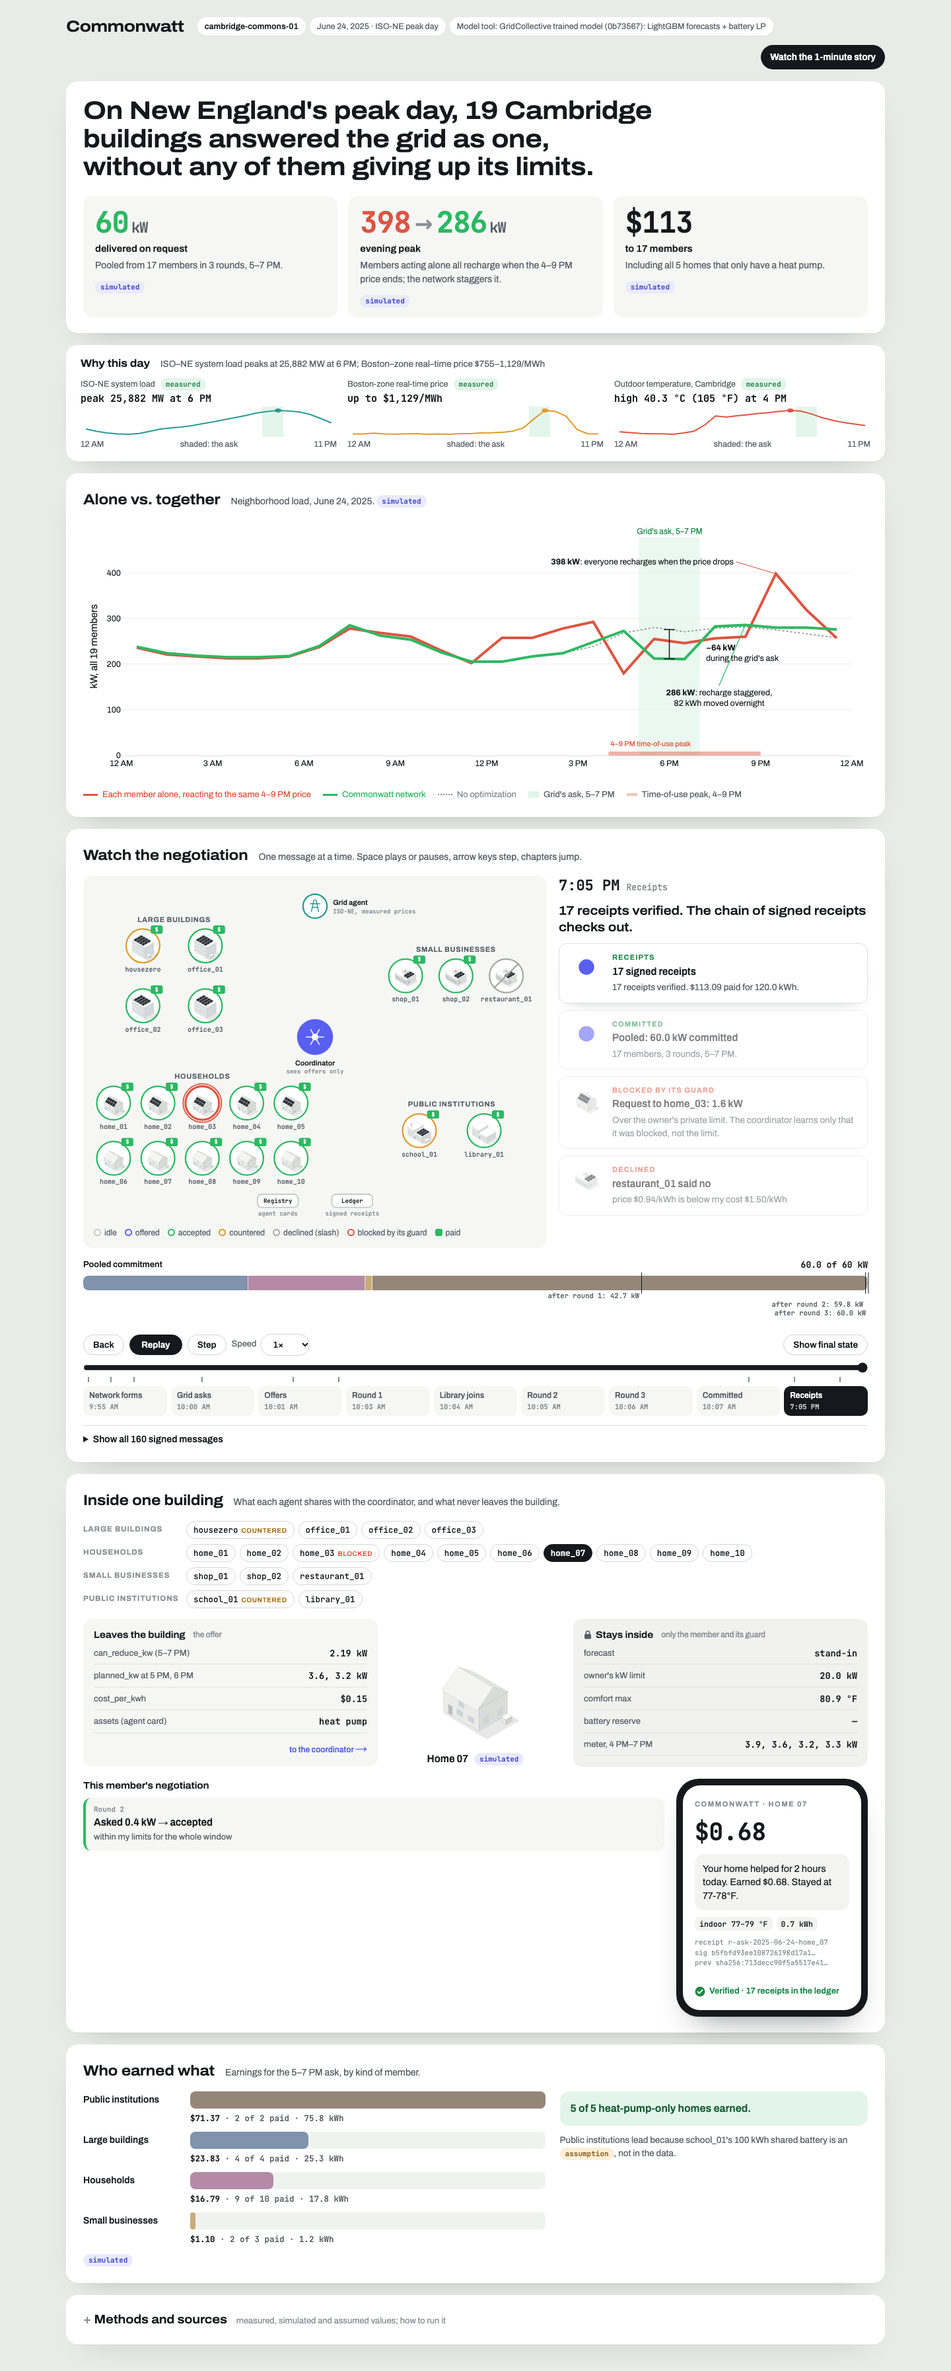
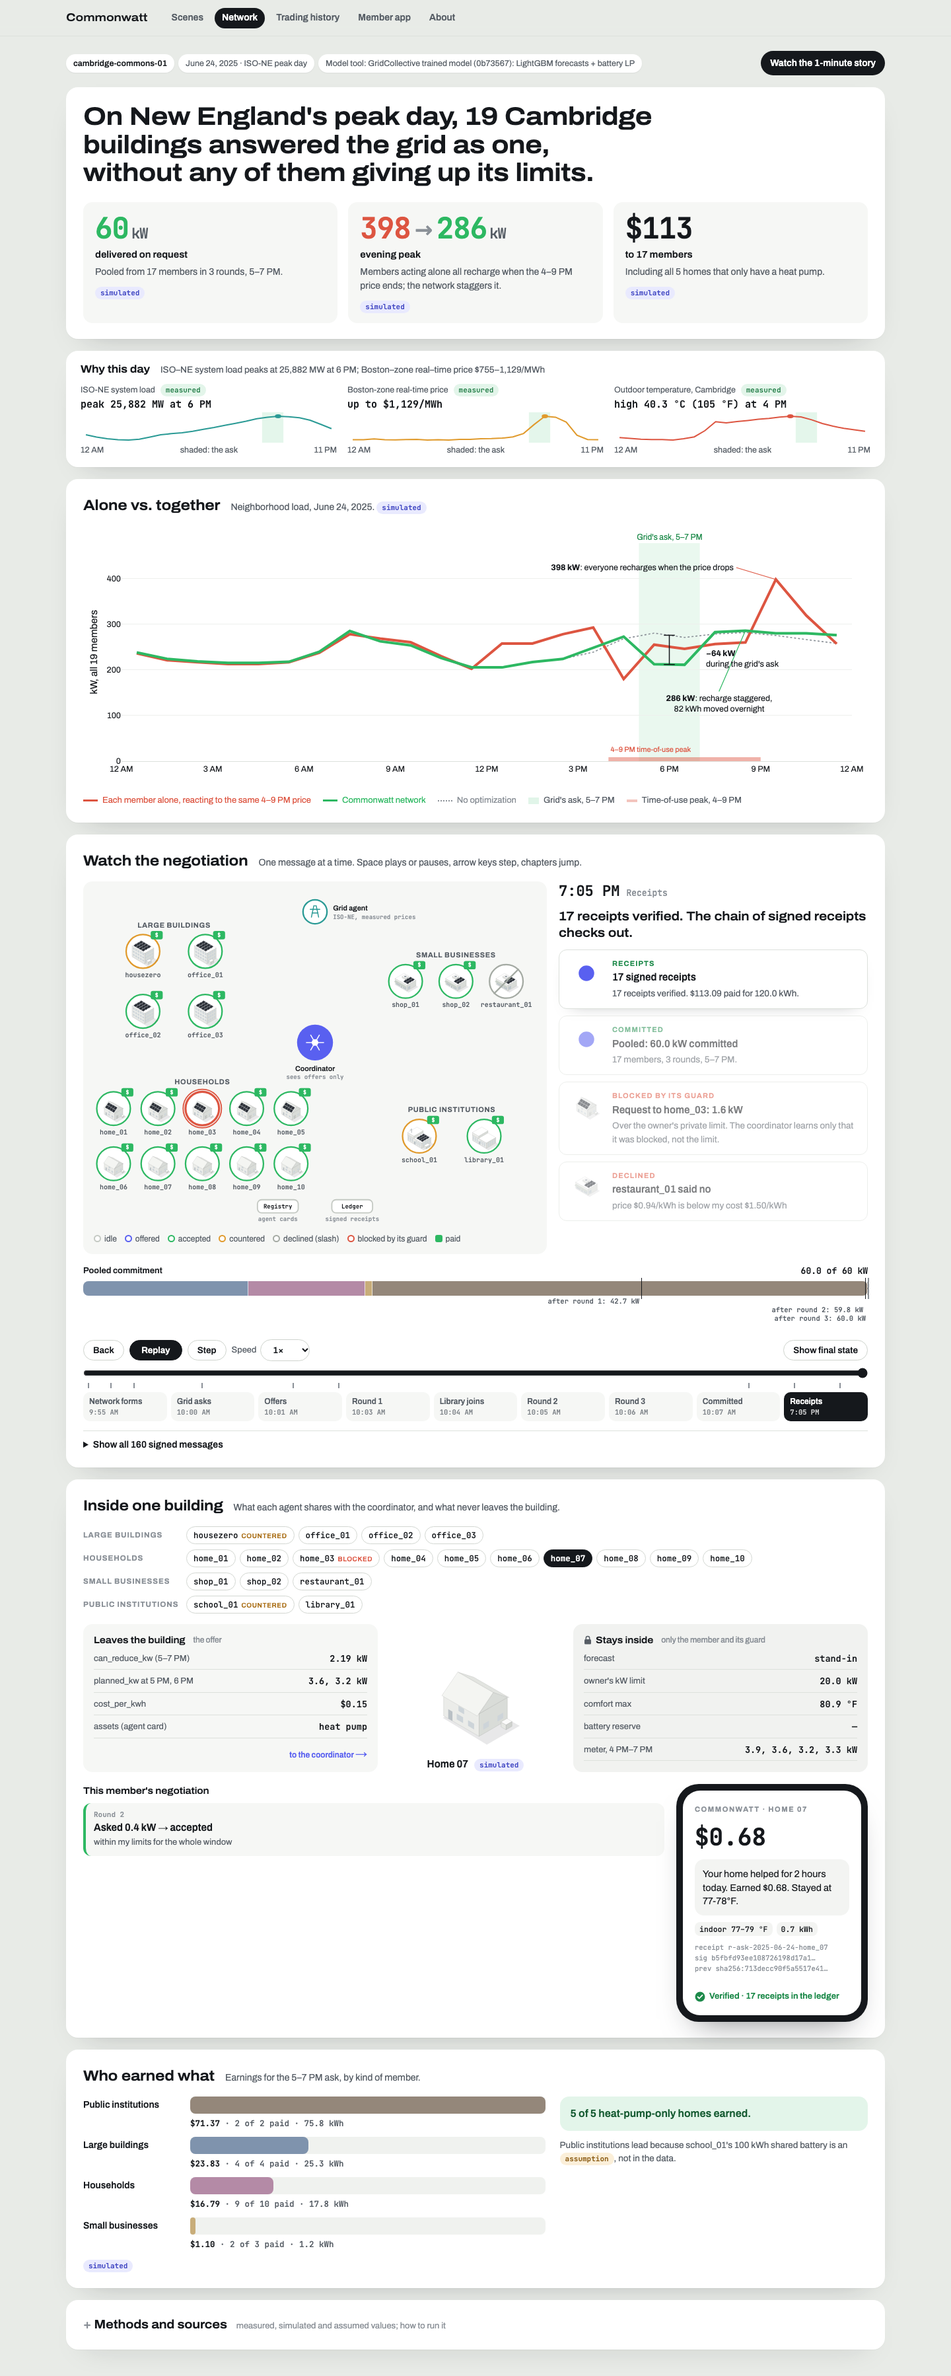
Spec task 1: shared nav on every page, landing page with June 24 numbers
app/nav.js injects Scenes / Network / Trading history / Member app / About; index.html is the landing page
(old dashboard kept as dashboard-v1.html); check_story.py checks every page at 1440 and 390 px.

diff --git a/app/index.html b/app/index.html
@@ -2,83 +2,61 @@
 <html lang="en">
 <head>
 <meta charset="utf-8">
-<title>Commonwatt · Cambridge commons · June 24, 2025</title>
 <meta name="viewport" content="width=device-width, initial-scale=1">
-<link rel="stylesheet" href="style.css">
-<script src="vendor/plotly-basic.min.js"></script>
+<title>Commonwatt · an energy commons for Massachusetts neighborhoods</title>
+<link rel="stylesheet" href="story.css">
 <script src="data/demo.js"></script>
+<script src="nav.js"></script>
+<style>
+.land-links { display:grid; grid-template-columns:repeat(auto-fit, minmax(220px, 1fr)); gap:14px; }
+.land-links a { display:block; background:#fff; border-radius:16px; padding:18px 20px; text-decoration:none; color:var(--ink);
+  box-shadow:var(--shadow); transition:transform .15s ease; }
+.land-links a:hover { transform:translateY(-2px); }
+.land-links b { display:block; font-size:18px; font-stretch:112%; margin-bottom:4px; }
+.land-links span { color:var(--ink-2); font-size:14px; }
+.pitch { font-size:clamp(16px, 2vw, 19px); color:var(--ink-2); max-width:62ch; margin:14px 0 0; }
+</style>
 </head>
 <body>
-<header>
-  <div>
-    <h1>Commonwatt <span>⚡</span></h1>
-    <p class="sub">Every building gets an agent. Every neighborhood gets a network.</p>
-  </div>
-  <div class="meta" id="meta"></div>
-</header>
-
-<section class="controls">
-  <button id="play">▶ Play the day</button>
-  <button id="step">Step</button>
-  <button id="showall">Show all</button>
-  <button id="reset">Reset</button>
-  <label>Speed <input id="speed" type="range" min="20" max="600" value="180"></label>
-  <div class="beats" id="beats"></div>
-</section>
-
-<main>
-  <section class="panel network">
-    <h2>The network <small>coordinator sees agent cards and offers only</small></h2>
-    <svg id="net" viewBox="0 0 660 430"></svg>
-    <div class="legend">
-      <span class="l request">request</span><span class="l accept">accept</span><span class="l counter">counter</span>
-      <span class="l blocked">blocked / decline</span><span class="l receipt">receipt</span><span class="l join">joined</span>
-    </div>
+<div class="wrap" id="app">
+  <section class="card hero" aria-labelledby="heroTitle">
+    <h1 id="heroTitle">Every building gets an agent. Every neighborhood gets a network.</h1>
+    <p class="pitch">Commonwatt turns a Massachusetts neighborhood's homes, businesses and public buildings into an
+      energy commons. Each building's agent keeps its owner's limits private, negotiates with a coordinator when the
+      grid asks for help, and gets paid against a signed receipt.</p>
+    <div class="hero-stats" id="heroStats"></div>
   </section>
-  <section class="panel log">
-    <h2>Message log <small>every message is a signed envelope</small></h2>
-    <ol id="log"></ol>
-  </section>
-
-  <section class="panel chart wide">
-    <h2>Neighborhood load, June 24, 2025 <small id="chart-note"></small></h2>
-    <div id="chart"></div>
-    <div class="kpis" id="kpis"></div>
-  </section>
-
-  <section class="panel phone-panel">
-    <h2>Member card</h2>
-    <select id="member"></select>
-    <div class="phone"><div class="screen" id="phone"></div></div>
-  </section>
-  <section class="panel privacy">
-    <h2>What leaves the building <small>and what stays private</small></h2>
-    <div class="cols">
-      <div><h3>Coordinator sees (offer)</h3><table id="seen"></table></div>
-      <div><h3>Stays with the member and its guard</h3><table id="private"></table></div>
-    </div>
-    <h3>Negotiation for this member</h3>
-    <table id="steps"></table>
-  </section>
-
-  <section class="panel fair">
-    <h2>Fairness <small>earnings by kind of member</small></h2>
-    <div id="fairchart"></div>
-    <table id="fairtable"></table>
-  </section>
-  <section class="panel sources">
-    <h2>Where every number comes from</h2>
-    <div id="labels"></div>
-    <table id="srctable"></table>
-  </section>
-</main>
-<footer>
-  Synthetic and simulated members are labeled. Battery sizes, prices paid and tariffs are assumptions; savings are
-  simulation results, not measured outcomes. Data: HouseZero (Harvard CGBC, CC BY 4.0, DOIs
-  10.6084/m9.figshare.30260233.v1 and 10.6084/m9.figshare.32790984.v1), City of Boston Analyze Boston (Central
-  Library electricity, PDDL), ISO New England, National Grid (Massachusetts Electric) class load shapes, NREL ComStock
-  templates.
-</footer>
-<script src="app.js"></script>
+  <nav class="land-links" aria-label="Explore">
+    <a href="presentation/commonwatt-story.html"><b>Scenes</b><span>The 1-minute story: four buildings, then the network they form.</span></a>
+    <a href="story.html"><b>Network</b><span>Replay the June 24, 2025 negotiation message by message.</span></a>
+    <a href="history.html"><b>Trading history</b><span>Seven days of asks, payments and a verifiable receipt chain.</span></a>
+    <a href="member.html"><b>Member app</b><span>What one owner sees on their phone.</span></a>
+    <a href="about.html"><b>About</b><span>The problem, the architecture, the data.</span></a>
+  </nav>
+  <p class="footnote" id="landNote"></p>
+</div>
+<div class="missing" id="missing" hidden>Run <code>uv run commonwatt-demo</code> first.</div>
+<script>
+(function () {
+  var D = window.COMMONWATT;
+  if (!D) { document.getElementById('app').hidden = true; document.getElementById('missing').hidden = false; return; }
+  var S = D.summary, fmt = function (x, d) { return Number(x).toLocaleString('en-US', { minimumFractionDigits: d || 0, maximumFractionDigits: d || 0 }); };
+  var drop = 100 * (1 - S.peak_kw.network / S.peak_kw.alone);
+  var pill = '<span class="pill simulated">simulated</span>';
+  document.getElementById('heroStats').innerHTML =
+    '<div class="stat s2"><div class="num"><span class="to">−' + fmt(drop) + '</span><span class="unit">%</span></div>' +
+    '<div class="lab">evening peak on June 24, 2025</div><p>' + fmt(S.peak_kw.alone) + ' kW when every member acts alone, ' +
+    fmt(S.peak_kw.network) + ' kW with the network.</p>' + pill + '</div>' +
+    '<div class="stat s1"><div class="num">' + fmt(S.pooled_kw) + '<span class="unit">kW</span></div>' +
+    '<div class="lab">delivered on the grid\'s request</div><p>' + D.members.length + ' members, ' + S.rounds +
+    ' negotiation rounds, ' + D.window_label + '.</p>' + pill + '</div>' +
+    '<div class="stat s3"><div class="num">$' + fmt(S.paid_usd) + '</div><div class="lab">to ' + S.members_paid +
+    ' members</div><p>' + S.ledger + '; ' + S.hp_only_homes_paid + ' of ' + S.hp_only_homes +
+    ' heat-pump-only homes paid.</p>' + pill + '</div>';
+  document.getElementById('landNote').textContent = 'June 24, 2025 was the ISO-NE peak day. Inputs are measured ' +
+    'Massachusetts data (HouseZero, Boston Public Library, ISO-NE); members, batteries and payments are simulated or ' +
+    'assumptions, labeled on every page. Model tool: ' + D.tool + '.';
+})();
+</script>
 </body>
 </html>

diff --git a/app/dashboard-v1.html b/app/dashboard-v1.html
@@ -1,0 +1,84 @@
+<!doctype html>
+<html lang="en">
+<head>
+<meta charset="utf-8">
+<title>Commonwatt · Cambridge commons · June 24, 2025</title>
+<meta name="viewport" content="width=device-width, initial-scale=1">
+<link rel="stylesheet" href="style.css">
+<script src="vendor/plotly-basic.min.js"></script>
+<script src="data/demo.js"></script>
+</head>
+<body>
+<header>
+  <div>
+    <h1>Commonwatt <span>⚡</span></h1>
+    <p class="sub">Every building gets an agent. Every neighborhood gets a network.</p>
+  </div>
+  <div class="meta" id="meta"></div>
+</header>
+
+<section class="controls">
+  <button id="play">▶ Play the day</button>
+  <button id="step">Step</button>
+  <button id="showall">Show all</button>
+  <button id="reset">Reset</button>
+  <label>Speed <input id="speed" type="range" min="20" max="600" value="180"></label>
+  <div class="beats" id="beats"></div>
+</section>
+
+<main>
+  <section class="panel network">
+    <h2>The network <small>coordinator sees agent cards and offers only</small></h2>
+    <svg id="net" viewBox="0 0 660 430"></svg>
+    <div class="legend">
+      <span class="l request">request</span><span class="l accept">accept</span><span class="l counter">counter</span>
+      <span class="l blocked">blocked / decline</span><span class="l receipt">receipt</span><span class="l join">joined</span>
+    </div>
+  </section>
+  <section class="panel log">
+    <h2>Message log <small>every message is a signed envelope</small></h2>
+    <ol id="log"></ol>
+  </section>
+
+  <section class="panel chart wide">
+    <h2>Neighborhood load, June 24, 2025 <small id="chart-note"></small></h2>
+    <div id="chart"></div>
+    <div class="kpis" id="kpis"></div>
+  </section>
+
+  <section class="panel phone-panel">
+    <h2>Member card</h2>
+    <select id="member"></select>
+    <div class="phone"><div class="screen" id="phone"></div></div>
+  </section>
+  <section class="panel privacy">
+    <h2>What leaves the building <small>and what stays private</small></h2>
+    <div class="cols">
+      <div><h3>Coordinator sees (offer)</h3><table id="seen"></table></div>
+      <div><h3>Stays with the member and its guard</h3><table id="private"></table></div>
+    </div>
+    <h3>Negotiation for this member</h3>
+    <table id="steps"></table>
+  </section>
+
+  <section class="panel fair">
+    <h2>Fairness <small>earnings by kind of member</small></h2>
+    <div id="fairchart"></div>
+    <table id="fairtable"></table>
+  </section>
+  <section class="panel sources">
+    <h2>Where every number comes from</h2>
+    <div id="labels"></div>
+    <table id="srctable"></table>
+  </section>
+</main>
+<footer>
+  Synthetic and simulated members are labeled. Battery sizes, prices paid and tariffs are assumptions; savings are
+  simulation results, not measured outcomes. Data: HouseZero (Harvard CGBC, CC BY 4.0, DOIs
+  10.6084/m9.figshare.30260233.v1 and 10.6084/m9.figshare.32790984.v1), City of Boston Analyze Boston (Central
+  Library electricity, PDDL), ISO New England, National Grid (Massachusetts Electric) class load shapes, NREL ComStock
+  templates.
+</footer>
+<script src="app.js"></script>
+</body>
+</html>

diff --git a/app/nav.js b/app/nav.js
@@ -1,0 +1,49 @@
+/* Shared top navigation for every Commonwatt page. Include with
+     <script src="nav.js"></script>                      (pages in app/)
+     <script src="../nav.js" data-root="../"></script>  (pages in app/presentation/)
+   It injects a <nav> at the top of <body> and highlights the current page. No dependencies, works from file://. */
+(function () {
+  'use strict';
+  var me = document.currentScript;
+  var root = (me && me.getAttribute('data-root')) || '';
+  var PAGES = [
+    ['index.html', 'Commonwatt', 'home'],
+    ['presentation/commonwatt-story.html', 'Scenes'],
+    ['story.html', 'Network'],
+    ['history.html', 'Trading history'],
+    ['member.html', 'Member app'],
+    ['about.html', 'About'],
+  ];
+  var here = location.pathname.replace(/\\/g, '/');
+  function isCurrent(href) {
+    var file = href.split('/').pop();
+    if (href.indexOf('/') > -1) return here.indexOf(href) > -1;
+    return here.split('/').pop() === file || (file === 'index.html' && /\/app\/?$|\/$/.test(here));
+  }
+  var css = '' +
+    '.cw-nav{position:sticky;top:0;z-index:50;display:flex;flex-wrap:wrap;align-items:center;gap:4px 6px;' +
+    'padding:10px max(16px,calc((100vw - 1280px)/2 + 20px));background:rgba(232,235,231,.92);backdrop-filter:blur(8px);' +
+    'border-bottom:1px solid #dde1dc;font:600 14px/1.2 "Archivo","Helvetica Neue",Arial,sans-serif}' +
+    '.cw-nav a{color:#565d65;text-decoration:none;padding:7px 11px;border-radius:999px}' +
+    '.cw-nav a:hover{color:#15181c;background:#fff}' +
+    '.cw-nav a[aria-current=page]{color:#fff;background:#15181c}' +
+    '.cw-nav a.home{color:#15181c;font-size:17px;font-stretch:115%;margin-right:8px;padding-left:0;background:none}' +
+    '.cw-nav a.home[aria-current=page]{color:#15181c;background:none}' +
+    '.cw-nav a:focus-visible{outline:2px solid #5960f0;outline-offset:2px}' +
+    '@media (max-width:640px){.cw-nav{gap:2px;padding:8px 10px;font-size:12.5px}.cw-nav a{padding:6px 8px}' +
+    '.cw-nav a.home{width:100%;font-size:16px}}';
+  var st = document.createElement('style'); st.textContent = css; document.head.appendChild(st);
+  function mount() {
+    var nav = document.createElement('nav');
+    nav.className = 'cw-nav'; nav.setAttribute('aria-label', 'Commonwatt pages');
+    PAGES.forEach(function (p) {
+      var a = document.createElement('a');
+      a.href = root + p[0]; a.textContent = p[1];
+      if (p[2]) a.className = p[2];
+      if (isCurrent(p[0])) a.setAttribute('aria-current', 'page');
+      nav.appendChild(a);
+    });
+    document.body.insertBefore(nav, document.body.firstChild);
+  }
+  if (document.body) mount(); else document.addEventListener('DOMContentLoaded', mount);
+})();

diff --git a/app/story.html b/app/story.html
@@ -7,12 +7,12 @@
 <link rel="stylesheet" href="story.css">
 <script src="vendor/plotly-basic.min.js"></script>
 <script src="data/demo.js"></script>
+<script src="nav.js"></script>
 </head>
 <body>
 <div class="wrap" id="app">
 
   <header class="top">
-    <div class="brand">Commonwatt</div>
     <div class="chips" id="topChips"></div>
     <a class="story-link" href="presentation/commonwatt-story.html">Watch the 1-minute story</a>
   </header>

diff --git a/app/presentation/commonwatt-story.html b/app/presentation/commonwatt-story.html
@@ -191,6 +191,7 @@ svg.net .dot{filter:drop-shadow(0 0 4px currentColor)}
 </style>
 </head>
 <body>
+<script src="../nav.js" data-root="../"></script>
 <div class="wrap">
   <header class="top">
     <h1>Commonwatt</h1>

diff --git a/scripts/check_story.py b/scripts/check_story.py
@@ -1,6 +1,6 @@
-"""Screenshot app/story.html at 1440 px and 390 px, and fail on console errors or horizontal overflow.
+"""Open every Commonwatt page at 1440 px and 390 px; fail on console errors or horizontal overflow.
 
-    uv run python scripts/check_story.py            # writes docs/story-1440.png, docs/story-390.png
+    uv run python scripts/check_story.py            # also writes docs/<page>-1440.png and docs/<page>-390.png
 """
 
 from __future__ import annotations
@@ -11,43 +11,51 @@ from pathlib import Path
 from playwright.sync_api import sync_playwright
 
 ROOT = Path(__file__).resolve().parents[1]
-URL = (ROOT / "app" / "story.html").as_uri()
+PAGES = ["index.html", "story.html", "history.html", "member.html", "about.html", "presentation/commonwatt-story.html"]
+SHOTS = {"story.html": "story", "index.html": "landing", "history.html": "history", "member.html": "member",
+         "about.html": "about", "presentation/commonwatt-story.html": "scenes"}
 
 
 def main() -> int:
     problems: list[str] = []
     with sync_playwright() as p:
         browser = p.chromium.launch()
-        for width, hash_ in ((1440, "#all"), (390, "#all"), (1440, "")):
-            page = browser.new_page(viewport={"width": width, "height": 900})
-            errors: list[str] = []
-            page.on("console", lambda m, e=errors: e.append(m.text) if m.type == "error" else None)
-            page.on("pageerror", lambda exc, e=errors: e.append(str(exc)))
-            page.goto(URL + hash_)
-            page.wait_for_timeout(1500)
-            over = page.evaluate("document.documentElement.scrollWidth - document.documentElement.clientWidth")
-            tag = f"{width}{'-start' if not hash_ else ''}"
-            if errors:
-                problems.append(f"{tag}: console errors: {errors}")
-            if over > 0:
-                wide = page.evaluate("""() => [...document.querySelectorAll('body *')]
-                  .filter(e => e.getBoundingClientRect().right > document.documentElement.clientWidth + 1)
-                  .slice(0, 6).map(e => e.tagName + '.' + e.className + ' ' + Math.round(e.getBoundingClientRect().right))""")
-                problems.append(f"{tag}: horizontal overflow {over}px: {wide}")
-            if hash_:
-                page.screenshot(path=str(ROOT / "docs" / f"story-{width}.png"), full_page=True)
-            else:
-                page.click("#bNext")
-                page.wait_for_timeout(300)
-                for _ in range(8):
-                    page.keyboard.press("ArrowRight")
-                    page.wait_for_timeout(120)
-                sent = page.inner_text("#hapTitle")
-                if not sent:
-                    problems.append("step-through: empty panel sentence")
-                print(f"step-through ok: {sent!r}")
-            print(f"{tag}: errors={len(errors)} overflow={over}")
-            page.close()
+        for rel in PAGES:
+            f = ROOT / "app" / rel
+            if not f.exists():
+                continue
+            for width in (1440, 390):
+                page = browser.new_page(viewport={"width": width, "height": 900})
+                errors: list[str] = []
+                page.on("console", lambda m, e=errors: e.append(m.text) if m.type == "error" else None)
+                page.on("pageerror", lambda exc, e=errors: e.append(str(exc)))
+                page.goto(f.as_uri() + ("#all" if rel == "story.html" else ""))
+                page.wait_for_timeout(1500)
+                over = page.evaluate("document.documentElement.scrollWidth - document.documentElement.clientWidth")
+                nav = page.evaluate("!!document.querySelector('nav.cw-nav')")
+                errors = [e for e in errors if "fonts.g" not in e and "net::ERR" not in e]
+                tag = f"{rel} @{width}"
+                if errors:
+                    problems.append(f"{tag}: console errors: {errors[:3]}")
+                if over > 0:
+                    problems.append(f"{tag}: horizontal overflow {over}px")
+                if not nav:
+                    problems.append(f"{tag}: shared nav missing")
+                page.screenshot(path=str(ROOT / "docs" / f"{SHOTS[rel]}-{width}.png"), full_page=width == 1440)
+                print(f"{tag}: errors={len(errors)} overflow={over} nav={nav}")
+                page.close()
+        # replay still steps with the keyboard
+        page = browser.new_page(viewport={"width": 1440, "height": 900})
+        page.goto((ROOT / "app" / "story.html").as_uri())
+        page.wait_for_timeout(800)
+        page.click("#bNext")
+        for _ in range(8):
+            page.keyboard.press("ArrowRight")
+            page.wait_for_timeout(100)
+        sent = page.inner_text("#hapTitle")
+        print(f"replay step-through: {sent!r}")
+        if not sent:
+            problems.append("replay: empty panel sentence")
         browser.close()
     for pr in problems:
         print("PROBLEM", pr)

diff --git a/KIRO_USAGE.md b/KIRO_USAGE.md
@@ -16,6 +16,7 @@ how Kiro was used"). Fill the sections at the end; append to the log as you go.
 | 10/24 ~15:58 | Kiro | Hook | `commonwatt-tests-on-save` (PostFileSave on `src/commonwatt/*.py`) reruns the network's property-based tests on every change. |
 | 10/24 ~18:10 | Kiro | Spec task 13 | Plugged the trained GridCollective model into the agents as their default tool (`tools/gridcollective.py`): member agents use its calibrated LightGBM forecasts and battery LP to price and accept, counter or decline each request. |
 | 10/24 ~18:28 | Kiro | Steering + git | Committed the 3D presentation scenes from the other session to `app/presentation/` and added a `fileMatch` steering doc (`.kiro/steering/presentation.md`) that pulls in the presentation's README whenever those files are edited. Merged `kiro/commonwatt` into `main` through a pull request. |
+| 10/24 ~18:37 | Kiro | Spec task 1 (final-submission) | Shared nav (`app/nav.js`) on every page including the 3D scene player; `app/index.html` is now a landing page reading the June 24 numbers from `demo.js` (old dashboard kept as `dashboard-v1.html`). `scripts/check_story.py` now opens every page at 1440 and 390 px and fails on console errors, overflow or a missing nav. |
 | 10/24 ~18:30 | Robyn + Claude Code | Spec | Drafted `.kiro/specs/final-submission/` (requirements with the rules' hard requirements, design with site map, week-simulation data shape, video script and form text; 12 time-boxed tasks) for Kiro to execute before the 8 PM deadline. Added the pre-rendered 3D scenes to `app/presentation/` (built with a three.js kit and baked to stills so the page needs no WebGL). |
 
 ## Write-up sections (fill before 6 PM)
